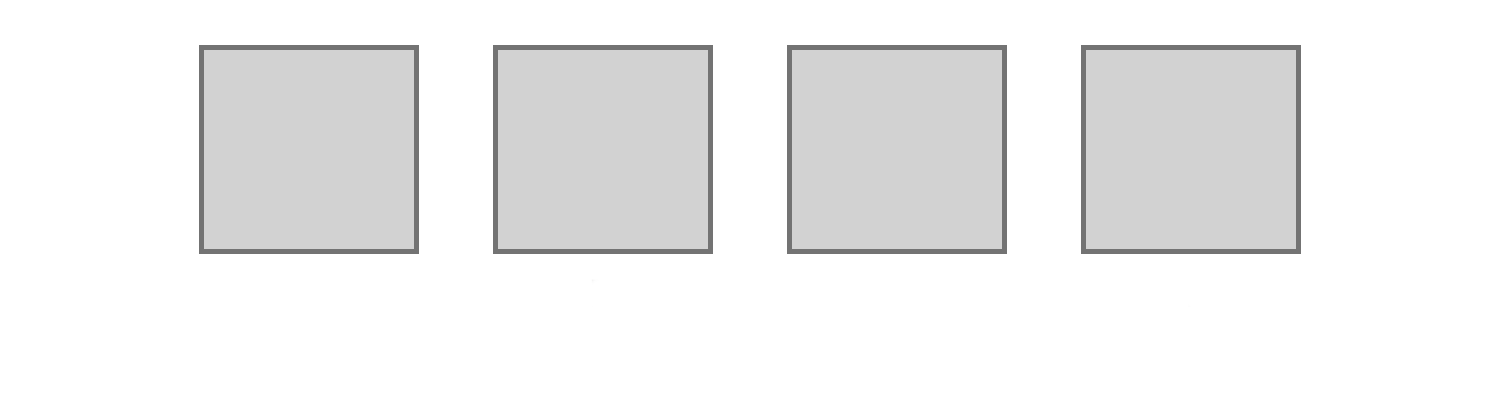
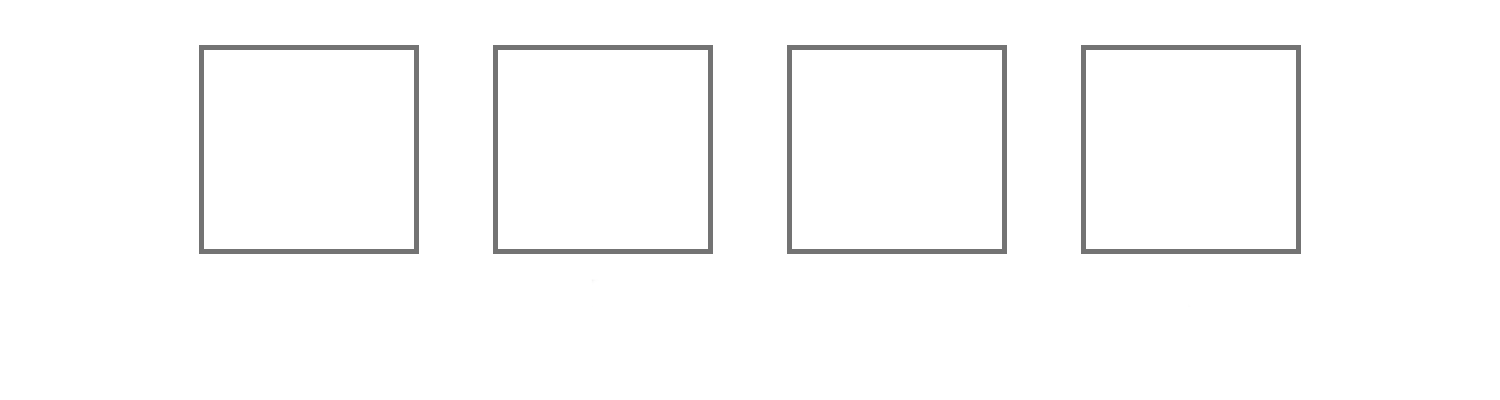
Updated instructions

diff --git a/index.html b/index.html
@@ -462,7 +462,8 @@
                 "<p style='text-align:center; font-size: 20px'>To make your selections, you could press one of four response-keys</b>.</p>"
                 + "<img class='example_Keyboard' src='" + instructions_images[3] + "'>",
 
-                "<p style='text-align:center; font-size: 20px'><br><br><br><br>On each step, <b>two of the four</b> circles will appear on the screen at two random locations.</p>"
+                "<p style='text-align:center; font-size: 20px'><br><br><br><br>On each step, <b>two of the four</b> colored circles will appear on the screen at two random locations.</p>"
+                + "<p style='text-align:center; font-size: 20px'>Two <b>grey circles</b> mark the two <b>unavailable</b> locations.</p>"
                 + "<img class='exampleCircles' src='" + instructions_images[4] + "'>",
 
                 "<p style='text-align:center; font-size: 20px'><br><br><br><br>You need to select one of the <b>colored circles</b>, by pressing on the relevant response-key, as shown below:</p>"
@@ -480,7 +481,7 @@
                 "<p style='text-align:center; font-size: 20px'>Keep in mind that <b>each circle</b> has a unique chance of giving you a gold coin.<br><br>However, the winning chances of each circle will slowly change over time - <b>so you need to keep on learning</b>.</p>"
                 + "<img class='example_Keyboard' src='" + instructions_images[2] + "'><br>",
 
-                "<p style='text-align:center; font-size: 20px'><b>Only the circles you choose determine your outcome, and not their location on the screen</b>.</p>"
+                "<p style='text-align:center; font-size: 20px'><b>Only the circles you choose determines if you win a coin or not, and not their location on the screen</b>.</p>"
                 + "<img class='example_Keyboard' src='" + instructions_images[2] + "'><br>",
 
                 "<p style='text-align:center; font-size: 20px'><b>Your coin earnings in the game will translate to a money bonus.</b></p>",
@@ -495,7 +496,7 @@
                 + "<p style='font-size: 20px'><b>You can only learn about how rewarding a color is by choosing it.</b></p>",
 
                 "<p style='text-align:center; font-size: 20px'>3) A certain color will have the same coin winning chances regardless of its location.</p>"
-                + "<p style='font-size: 20px'><b>The specific location in which the colored circles appear, or the response-keys selected, doesn't affect winning chances.</b></p>",
+                + "<p style='font-size: 20px'><b>The specific location in which the colored circles appear, or the response-key selected, doesn't affect winning chances.</b></p>",
 
                 
                 "<p style='text-align:center; font-size: 20px'>You will play <b>200 choice steps with 3 breaks</b> during the game.</p>"
@@ -911,7 +912,7 @@
                     return '<p style="text-align: center"><b>We will now start the first round of the game</b></p>' +
                         "<p style='text-align: center'>Use 'S', 'F', 'H', 'K' to pick a colored circle.</p>" +
                         '<p style="text-align: left"><u>Remember that:</u><br>' +
-                        '1) Circles winning chances slowly change.<br>' +
+                        "1) Circles' winning chances slowly change.<br>" +
                         "2) Make your choices based only on the circle's color, not on where it appears.<br>" +
                         '3) You can only learn about an option by choosing it.</p>' +
                         '<p style="text-align: center"><b>Press SPACE to start</b></p>';
